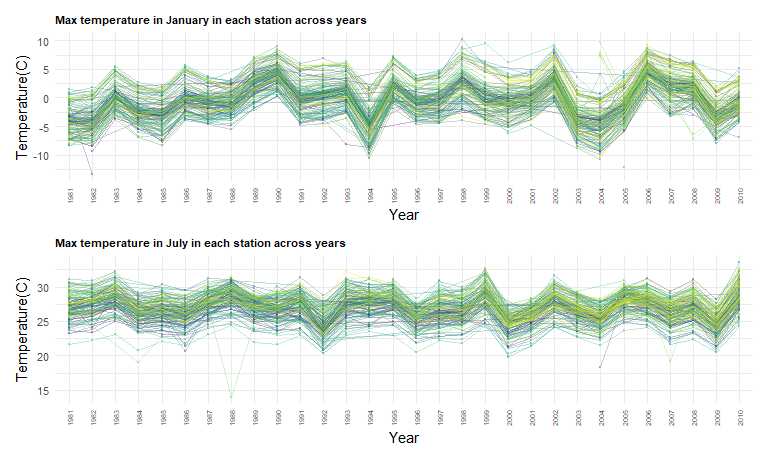
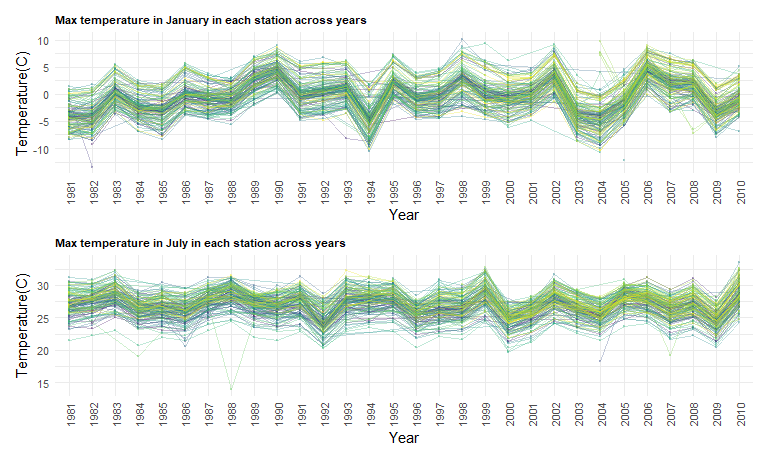
make some supplement

diff --git a/p8105_hw3_lg3156.md b/p8105_hw3_lg3156.md
@@ -280,8 +280,7 @@ activity_df %>%
 <img src="p8105_hw3_lg3156_files/figure-gfm/unnamed-chunk-8-1.png" width="90%" />
 
 In most of the days, the 63 year-old man’s main activity time is between
-10 am and 8 pm. There is no significant different between weekday and
-weekend.
+10 am and 8 pm. The man has relative less action on Saturday.
 
 # Problem 3
 
@@ -356,8 +355,9 @@ for all NY states from 1981/01/01 to 2010/12/31. There are 9 valuables –
 id, year, month, day, prcp, snow, snwd, tmax, and tmin. The type of “id”
 is character; the type of “year”, “month”, “day” are factor; the type of
 “prcp”, “snow”, “snwd”, “tmax”, and “tmin” are numeric and they all have
-missing data. The number of missing data of tmax and tmin are extremly
-high, so this is an issue.
+missing data. The proportion of missing data of snow (14.6%) and
+snwd(22.8%) are relative high. The proportion of missing data of
+tmax(43.7%) and tmin(43.7%) are extremly high.
 
 ### Snowfall
 
@@ -374,7 +374,7 @@ nynoaa_df %>%
     ## 1     0 TRUE  2008509     1
 
 The most commonly observed values is 0. Because in most of days, there
-isn’t a snowfall.
+wasn’t a snowfall.
 
 ### A plot showing the average max temperature
 
@@ -391,7 +391,7 @@ january =
   theme(
     legend.position = 'none',
     plot.title = element_text(lineheight = 3, face = "bold", color = "black", size = 8),
-    axis.text.x = element_text(angle = 90, vjust = 0.5, hjust = 1, size = 5),
+    axis.text.x = element_text(angle = 90, vjust = 0.5, hjust = 1, size = 8),
     axis.text.y = element_text(size = 8)
     ) +
   labs(
@@ -416,7 +416,7 @@ january =
   theme(
     legend.position = 'none',
     plot.title = element_text(lineheight = 3, face = "bold", color = "black", size = 8),
-    axis.text.x = element_text(angle = 90, vjust = 0.5, hjust = 1, size = 5),
+    axis.text.x = element_text(angle = 90, vjust = 0.5, hjust = 1, size = 8),
     axis.text.y = element_text(size = 8)
     ) +
   labs(
@@ -508,7 +508,7 @@ temperature =
   theme(
     plot.title = element_text(lineheight = 3, face = "bold", color = "black", size = 8),
     legend.position = 'right',
-    axis.text.x = element_text(angle = 90, vjust = 0.5, hjust = 1, size = 5),
+    axis.text.x = element_text(angle = 90, vjust = 0.5, hjust = 1, size = 8),
     axis.text.y = element_text(size = 8)
     ) +
   labs(
@@ -524,7 +524,7 @@ snowfall =
   geom_violin(color = "purple" , fill = "yellow") +
   theme(
     plot.title = element_text(lineheight = 3, face = "bold", color = "black", size = 8),
-    axis.text.x = element_text(angle = 90, vjust = 0.5, hjust = 1, size = 5),
+    axis.text.x = element_text(angle = 90, vjust = 0.5, hjust = 1, size = 8),
     axis.text.y = element_text(size = 8)) +
   labs(
     x = "Year",
